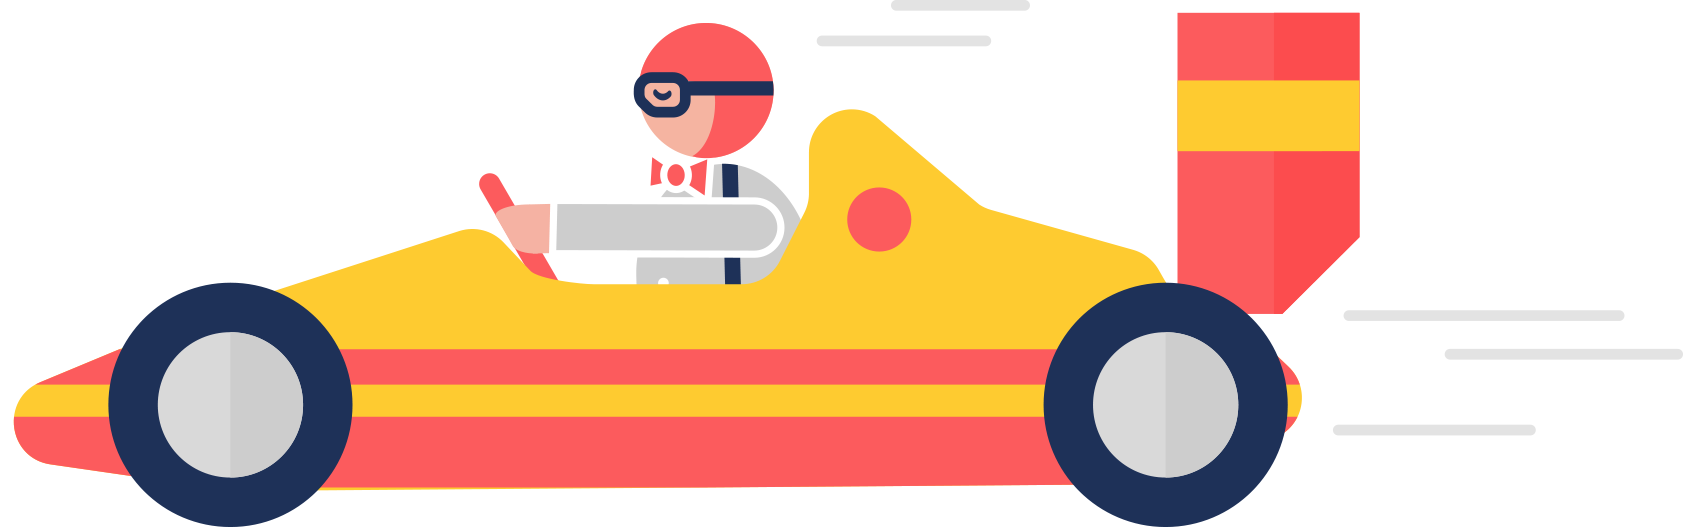
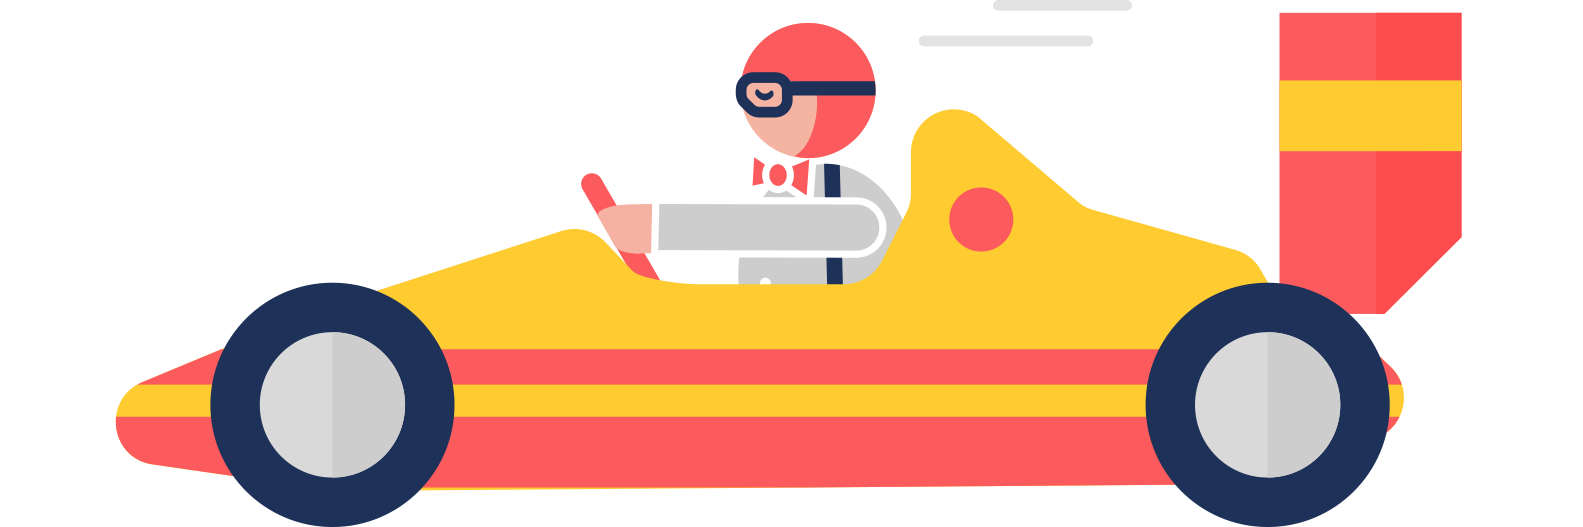
Finish main landing page.

diff --git a/client/src/app/views/mainLanding.js b/client/src/app/views/mainLanding.js
@@ -148,6 +148,7 @@ export default React.createClass({
                                 the possibilities are endless!</h2>
                             <p>(and if you ever need to make more cash, we can help you out!)</p>
                             <hr />
+                            <hr />
                             <button className="btn btn-primary btn-xl text-center ">Get started</button>
                         </div>
                         <div className="col-md-6 col-sm-6 text-right">

diff --git a/client/src/assets/main.css b/client/src/assets/main.css
@@ -288,7 +288,7 @@ body {
 }
 .app-block-race-car img {
   margin-top: 75px;
-  width: 450px;
+  width: 550px;
 }
 .app-block-truck img {
   height: 280px;
